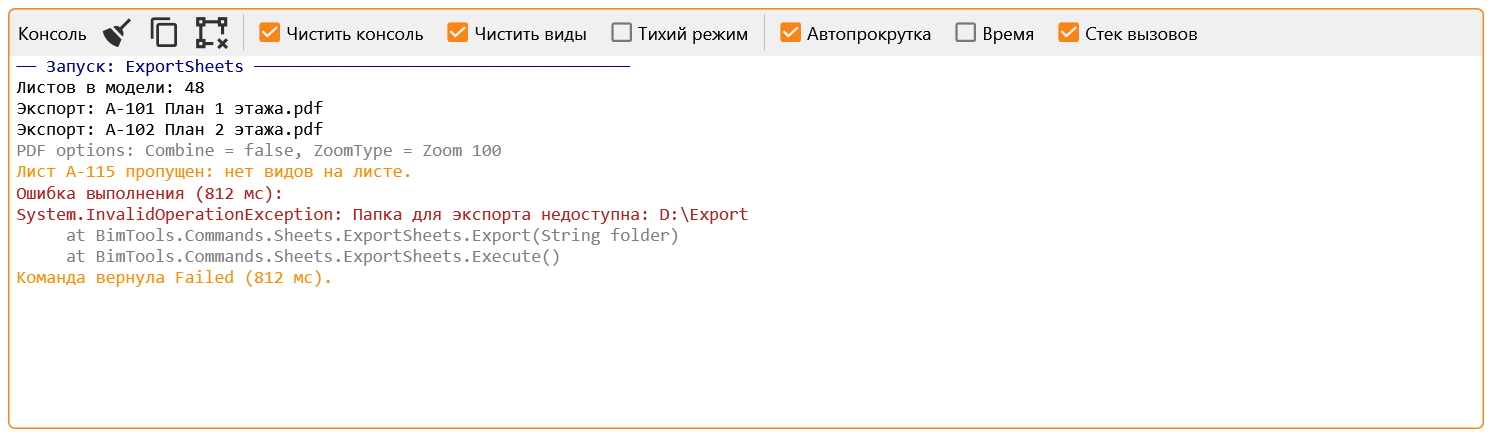
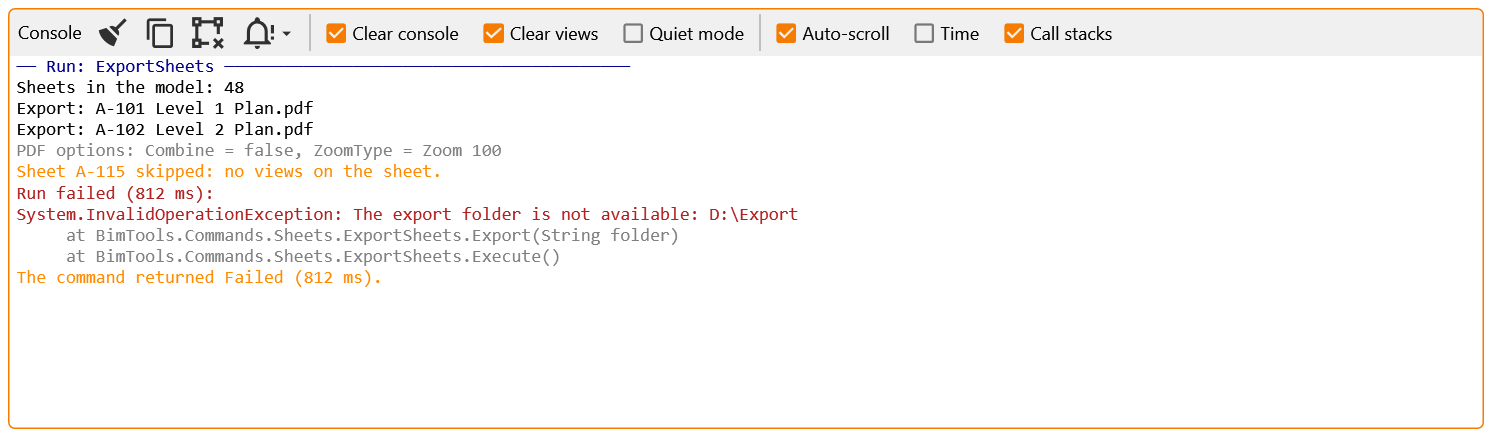
Add English and Russian screenshots

diff --git a/README.ru.md b/README.ru.md
@@ -9,7 +9,9 @@
 
 Набор инструментов для тех, кто пишет надстройки для Revit. Проверить идею C#-скриптом без сборки, запускать команды из своей DLL без перезапуска Revit и понять, почему надстройка подхватила не ту версию библиотеки.
 
-![Script Editor](assets/script-editor.png)
+![Script Editor](assets/ru/script-editor.png)
+
+> DevKit говорит по-русски в русском Revit и по-английски в остальных. Чтобы выбрать язык самому, укажите `"language"` в `%AppData%\RevitDevKit\settings.json`: `"ru"` или `"en"`.
 
 ## Что внутри
 

diff --git a/README.md b/README.md
@@ -11,7 +11,7 @@ A toolbox for people who write Revit add-ins. Try an idea as a C# script without
 
 ![Script Editor](assets/script-editor.png)
 
-> The interface is in Russian. The [wiki](https://github.com/Samveyil/RevitDevKit/wiki) gives every button with a translation.
+> DevKit speaks English, and Russian in a Russian Revit. To choose, set `"language"` in `%AppData%\RevitDevKit\settings.json` to `"en"` or `"ru"`.
 
 ## What's inside
 
